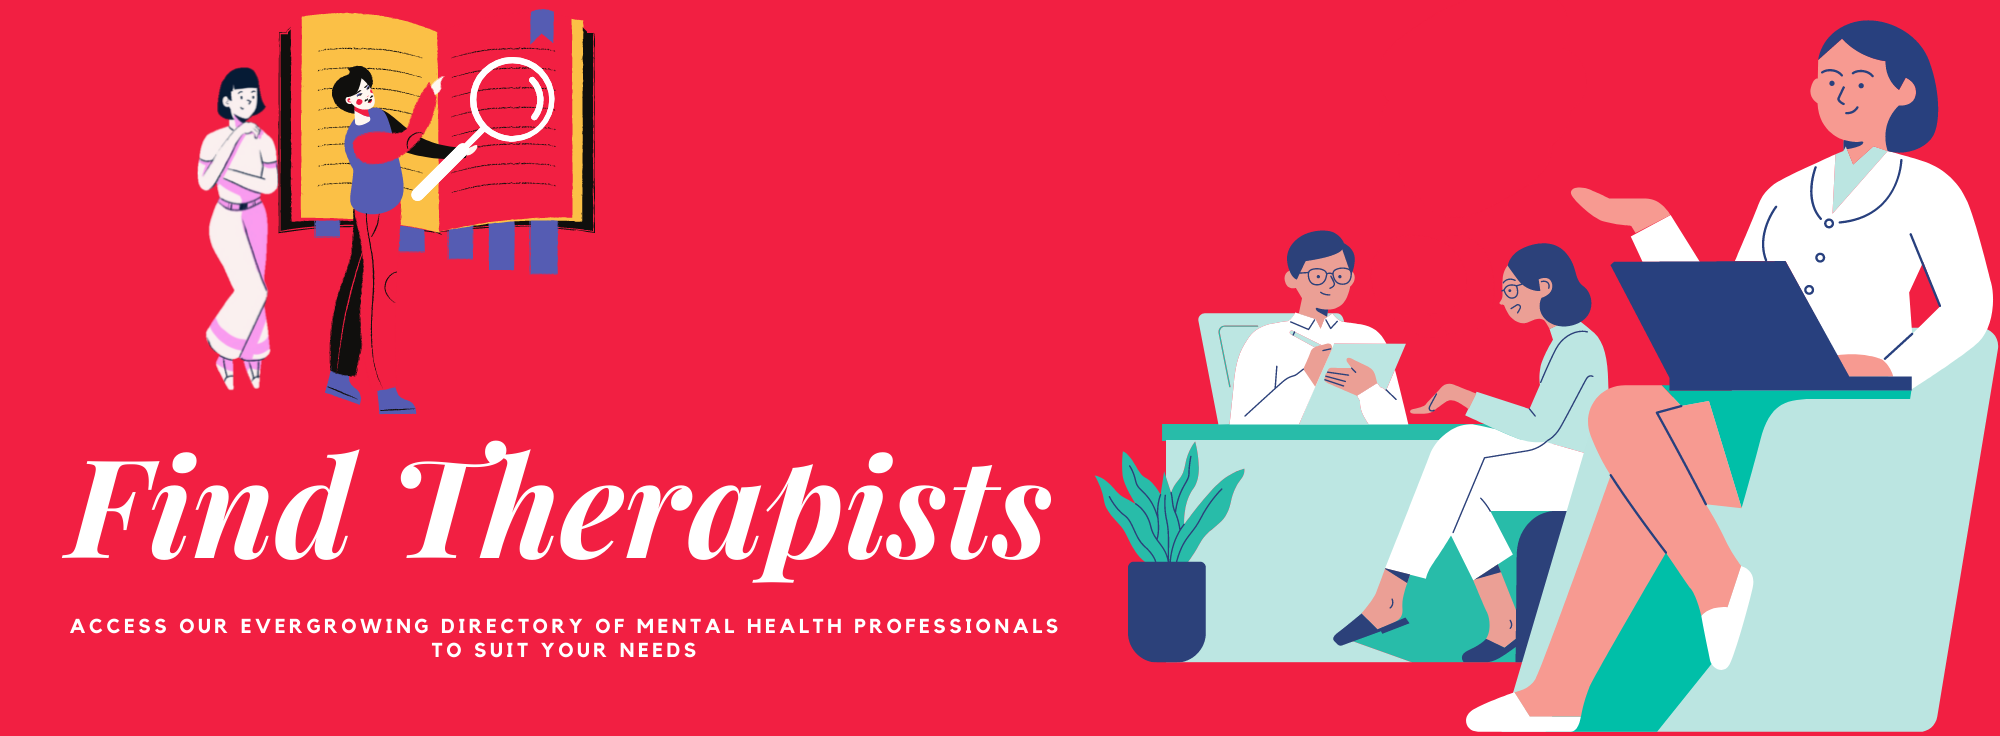
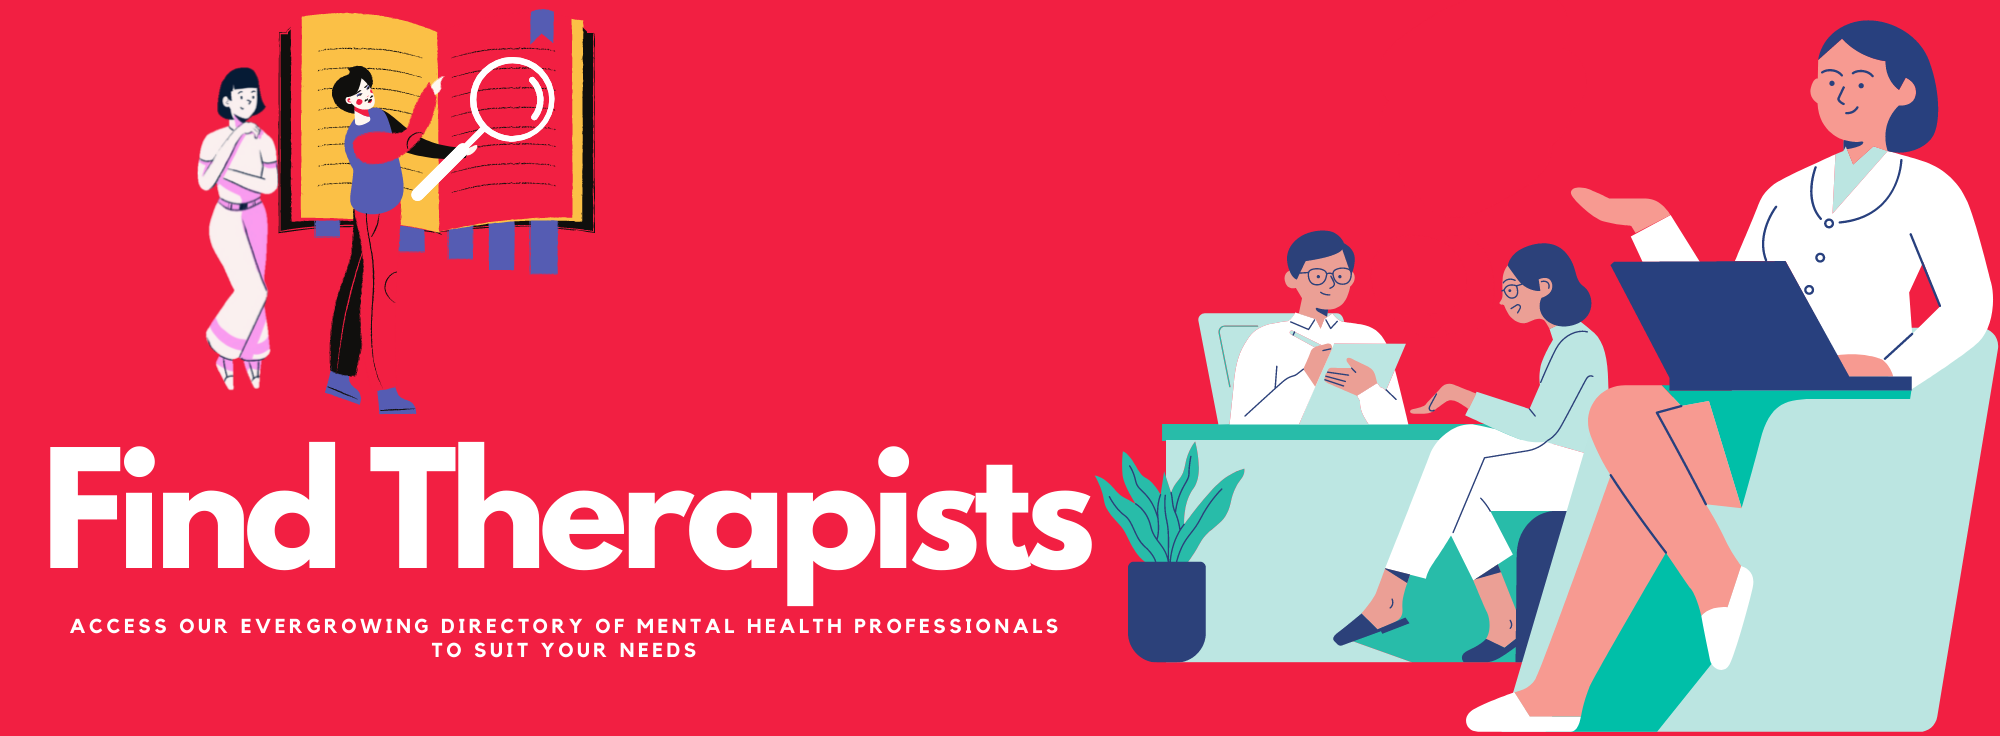
Graphics updated.
Images updated
Footer style changed

Changed region(s): [[0.0, 0.5938, 0.558, 0.8438]]

diff --git a/css/main.css b/css/main.css
@@ -185,7 +185,7 @@ canvas {
 
 .footer-basic {
     padding:0 0 20px;
-    background-color:#f21f42;
+    background-color:#e4dedf;
     color:#4b4c4d;
 }
   
@@ -225,17 +225,17 @@ canvas {
     display:inline-block;
     text-align:center;
     border-radius:50%;
-    border:1px solid #f21f42;
+    border:1px solid #f8f9fa;
     margin:0 8px;
     opacity:1;
-    background-color: #fff;
+    background-color: #f8f9fa;
 }
   
 .footer-basic .social > a:hover {
     opacity:0.9;
-    color: #ff0125;
-    background-color: #222;
-    border:1px solid #720101;
+    color: #f8f9fa;
+    background-color: #F21F42;
+    border:1px solid #F21F42;
 }
   
 .footer-basic .copyright {

diff --git a/index.html b/index.html
@@ -119,7 +119,7 @@
     </div> 
 
     <div id="footer" style="position: relative; z-index: 9;">
-        <img src="images/footer.png" class="img-fluid" id="footerbanner" alt="...">  
+        <img src="images/Be kind to yourself and (4).png" class="img-fluid" id="footerbanner" alt="...">  
     </div>
 
     <div class="footer-basic" style="position: relative; z-index: 9;">

diff --git a/content.html b/content.html
@@ -141,7 +141,7 @@
     </div>
 
     <div id="footer" style="position: relative; z-index: 9;">
-        <img src="images/footer.png" class="img-fluid" id="footerbanner" alt="...">  
+        <img src="images/Be kind to yourself and (4).png" class="img-fluid" id="footerbanner" alt="...">  
     </div>
 
     <div class="footer-basic" style="position: relative; z-index: 9;">

diff --git a/blogs.html b/blogs.html
@@ -178,7 +178,7 @@
     </div>
 
     <div id="footer" style="position: relative; z-index: 9;">
-        <img src="images/footer.png" class="img-fluid" id="footerbanner" alt="...">  
+        <img src="images/Be kind to yourself and (4).png" class="img-fluid" id="footerbanner" alt="...">
     </div>
 
     <div class="footer-basic" style="position: relative; z-index: 9;">

diff --git a/cc.html b/cc.html
@@ -36,7 +36,7 @@
     </div>
 
     <div id="footer" style="position: relative; z-index: 9;">
-        <img src="images/footer.png" class="img-fluid" id="footerbanner" alt="...">  
+        <img src="images/Be kind to yourself and (4).png" class="img-fluid" id="footerbanner" alt="...">  
     </div>
 
     <div class="footer-basic" style="position: relative; z-index: 9;">

diff --git a/interns.html b/interns.html
@@ -36,7 +36,7 @@
     </div>
 
     <div id="footer" style="position: relative; z-index: 9;">
-        <img src="images/footer.png" class="img-fluid" id="footerbanner" alt="...">  
+        <img src="images/Be kind to yourself and (4).png" class="img-fluid" id="footerbanner" alt="...">  
     </div>
 
     <div class="footer-basic" style="position: relative; z-index: 9;">

diff --git a/more-about-us.html b/more-about-us.html
@@ -59,7 +59,7 @@
     </div>
 
     <div id="footer" style="position: relative; z-index: 9;">
-        <img src="images/footer.png" class="img-fluid" id="footerbanner" alt="...">  
+        <img src="images/Be kind to yourself and (4).png" class="img-fluid" id="footerbanner" alt="...">  
     </div>
 
     <div class="footer-basic" style="position: relative; z-index: 9;">

diff --git a/support-group.html b/support-group.html
@@ -36,7 +36,7 @@
     
 
     <div id="footer" style="position: relative; z-index: 9;">
-        <img src="images/footer.png" class="img-fluid" id="footerbanner" alt="...">  
+        <img src="images/Be kind to yourself and (4).png" class="img-fluid" id="footerbanner" alt="...">  
     </div>
 
     <div class="footer-basic" style="position: relative; z-index: 9;">

diff --git a/therapists.php b/therapists.php
@@ -210,7 +210,7 @@
     </div>
 
     <div id="footer" style="position: relative; z-index: 9;">
-        <img src="images/footer.png" class="img-fluid" id="footerbanner" alt="...">  
+    <img src="images/Be kind to yourself and (4).png" class="img-fluid" id="footerbanner" alt="...">  
     </div>
 
     <div class="footer-basic" style="position: relative; z-index: 9;">

diff --git a/for-professionals.php b/for-professionals.php
@@ -153,7 +153,7 @@
 
 
     <div id="footer" style="position: relative; z-index: 9;">
-        <img src="images/footer.png" class="img-fluid" id="footerbanner" alt="...">  
+    <img src="images/Be kind to yourself and (4).png" class="img-fluid" id="footerbanner" alt="...">  
     </div>
 
     <div class="footer-basic" style="position: relative; z-index: 9;">
